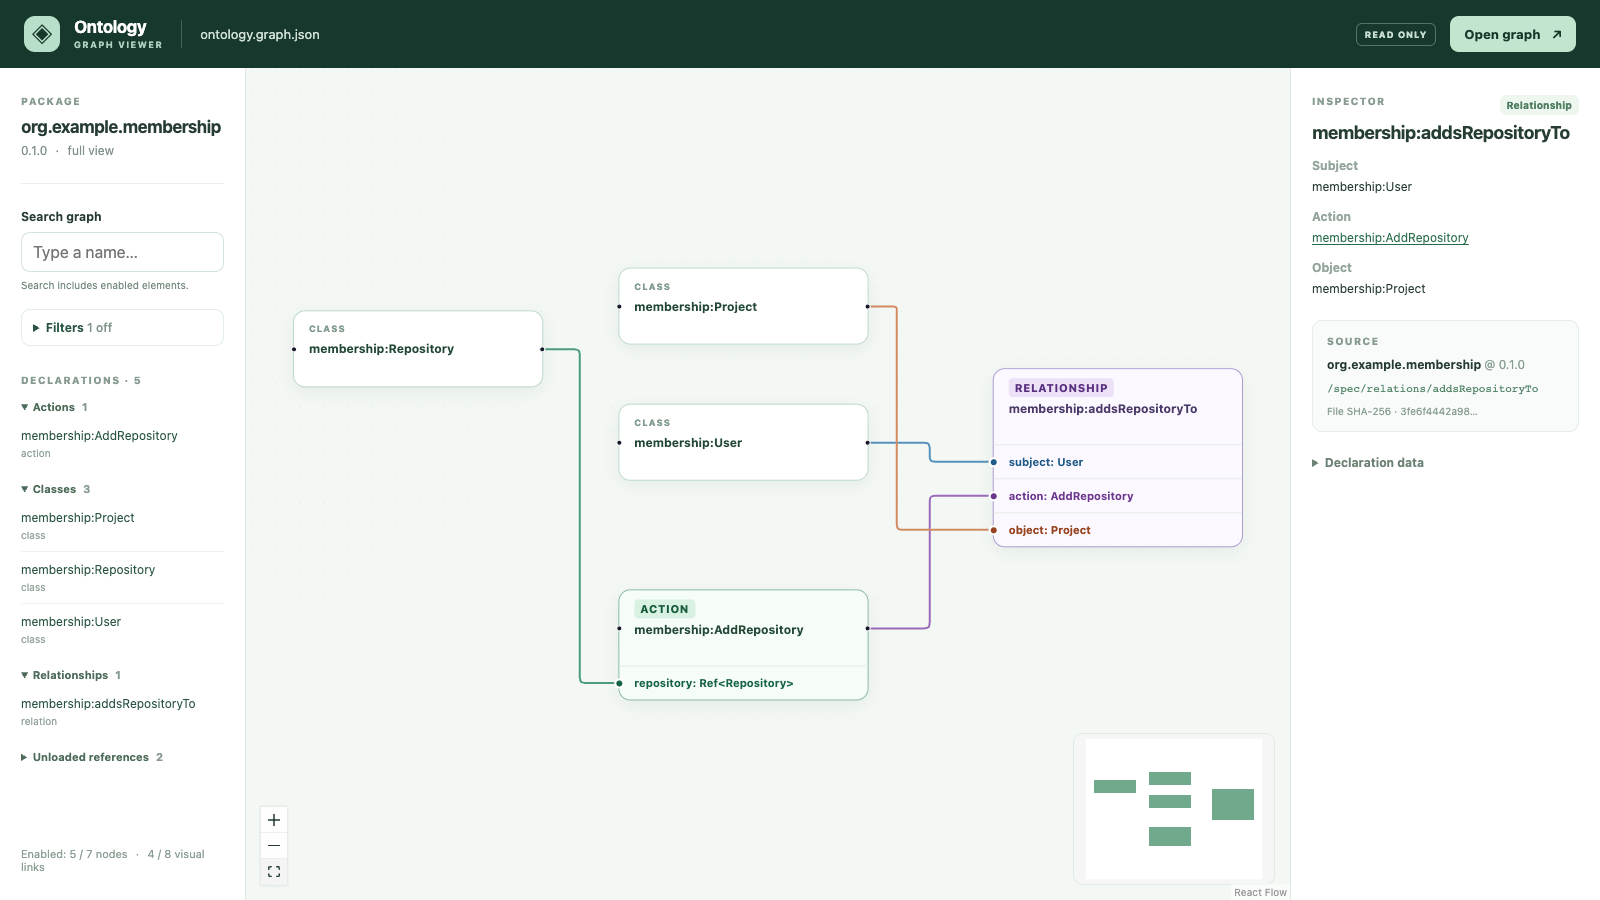
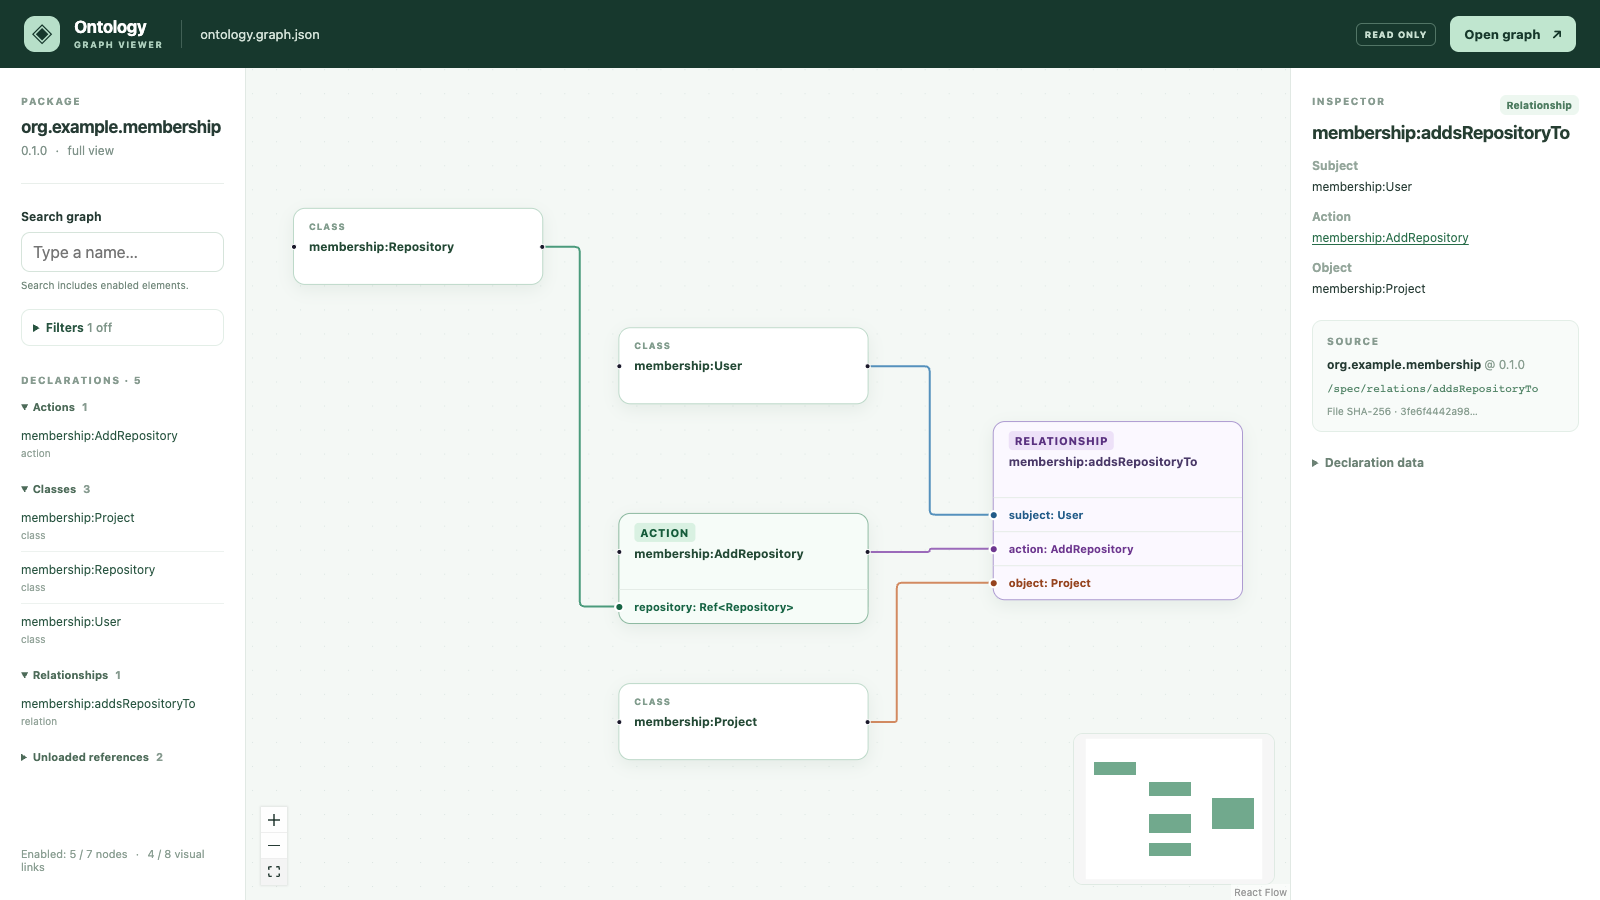
Recapture the README diagram with separated input wires

diff --git a/SPECS/ARCHIVE/ONT-075_Action_Canvas/Validation.md b/SPECS/ARCHIVE/ONT-075_Action_Canvas/Validation.md
@@ -11,3 +11,9 @@
 - Both projection modes preserve loaded reference-field targets. The screenshot
   and its README caption describe types. Viewing a supplied instance and its
   recorded participant values is the next separate slice.
+
+The membership inputs now start in subject, action, object order. A Chromium
+regression sampled the painted strokes of all four visible wires: two pairs
+intersected on the earlier layout and zero on the updated layout. The screenshot
+was recaptured after reopening the Viewer without dragging any card. The
+build, 21 unit tests and all 24 repository Chromium scenarios passed.
